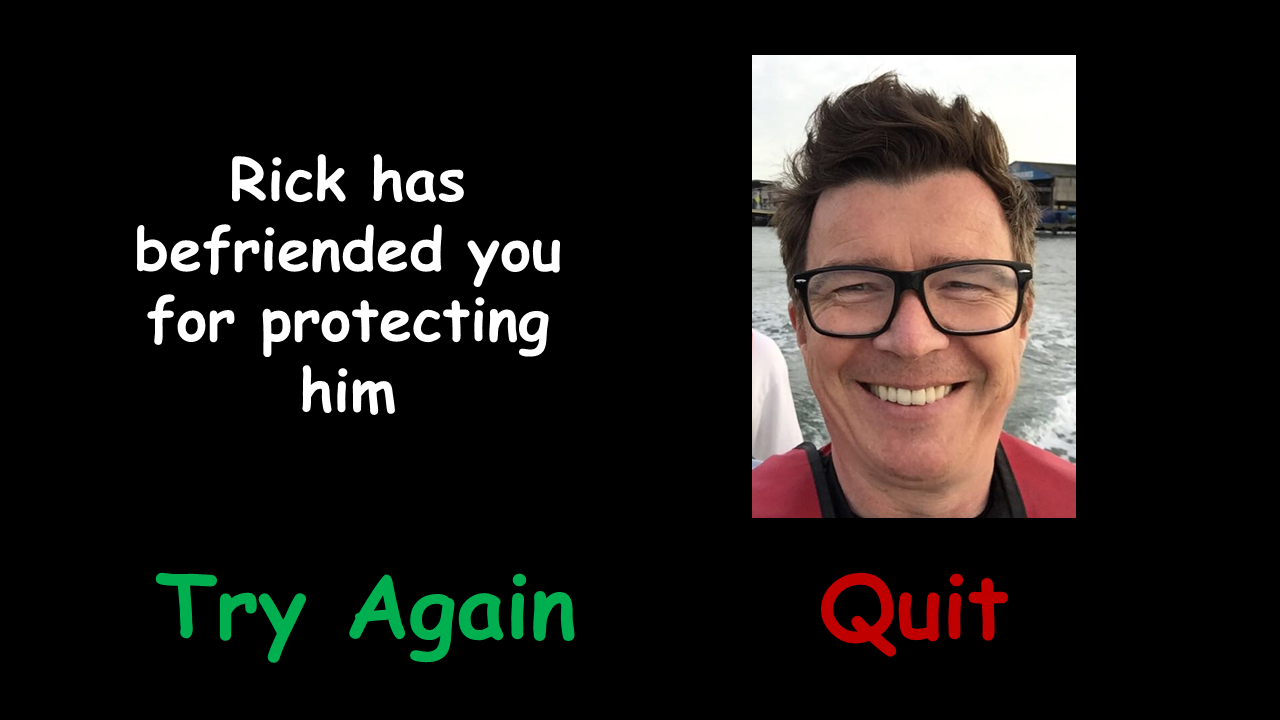
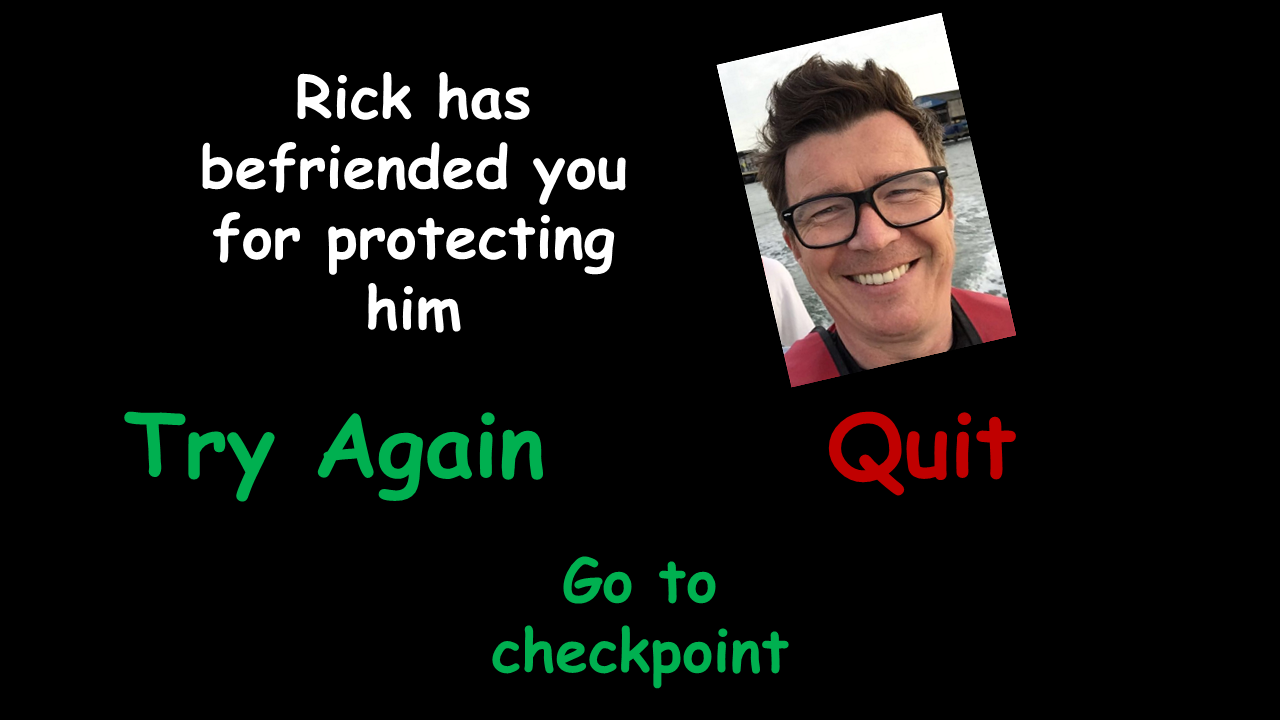
fixing rick 5

diff --git a/quiz/end/5.html b/quiz/end/5.html
@@ -28,10 +28,12 @@
     <div style="position:relative">
       <img draggable="false" id="main-image" src="/assets/deathscreen/rickbefriend.png" class="mt-5" width="100%">
       <!-- answers -->
-      <a draggable="false" data-bs-toggle="modal" data-bs-target="#quit" class="rim-hotspot"
-        style="width:17.1%; height:13.9%; left:62.9%; top:77.7%; position:absolute; cursor:pointer; display:block; z-index:5; overflow:hidden;"></a>
       <a draggable="false" data-bs-toggle="modal" data-bs-target="#checkpoint" class="rim-hotspot"
-        style="width:35.6%; height:16.5%; left:10.6%; top:75.9%; position:absolute; cursor:pointer; display:block; z-index:5; overflow:hidden;"></a>
+        style="width:26.6%; height:22.9%; left:37.4%; top:74.8%; position:absolute; cursor:pointer; display:block; z-index:5; overflow:hidden;"></a>
+      <a draggable="false" data-bs-toggle="modal" data-bs-target="#quit" class="rim-hotspot"
+        style="width:17.5%; height:16.2%; left:63.1%; top:53.8%; position:absolute; cursor:pointer; display:block; z-index:5; overflow:hidden;"></a>
+      <a draggable="false" data-bs-toggle="modal" data-bs-target="#restart" class="rim-hotspot"
+        style="width:36.7%; height:19.0%; left:7.7%; top:52.5%; position:absolute; cursor:pointer; display:block; z-index:5; overflow:hidden;"></a>
     </div>
   </div>
   <hr />
